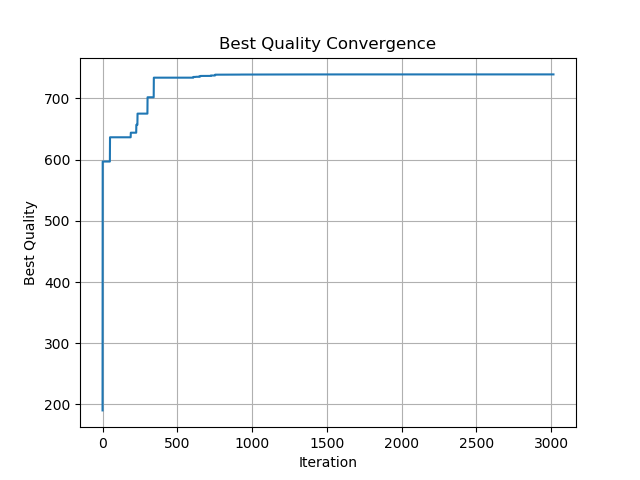
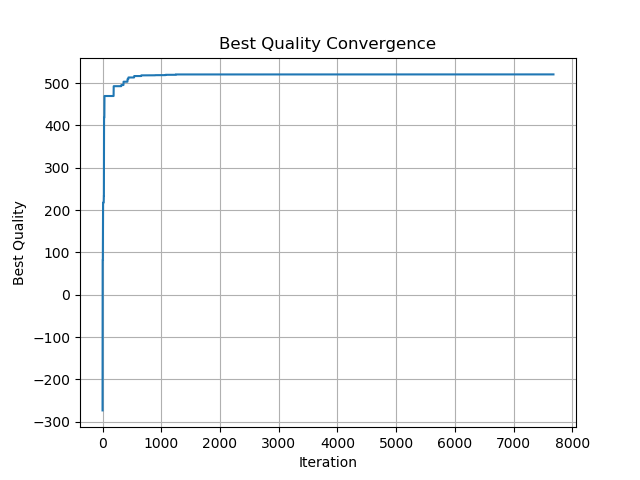
finished simulation

diff --git a/main.py b/main.py
@@ -84,7 +84,7 @@ def plot_results():
     plt.title('Best Quality Convergence')
     plt.grid()
     plt.savefig('line_best_convergence.%s' % fig_format, format=fig_format)
-    plt.show()
+    # plt.show()
 
 
 def print_text():
@@ -260,9 +260,9 @@ while run:
     clock.tick(DRAW_FREQUENCY)
 
     # Close the program if the quit button was pressed
-    for event in pygame.event.get():
-        if event.type == pygame.QUIT:
-            run = False
+    # for event in pygame.event.get():
+    #     if event.type == pygame.QUIT:
+    #         run = False
 
     # Processing input
     # keys = pygame.key.get_pressed()
@@ -308,6 +308,8 @@ while run:
     simulation.draw(window)
     print_text()
     # pygame.display.update()
+    if training_iteration > 2000:
+        plot_results()
 
     # Save the keyboard input for the next iteration
     # previous_keys = keys
